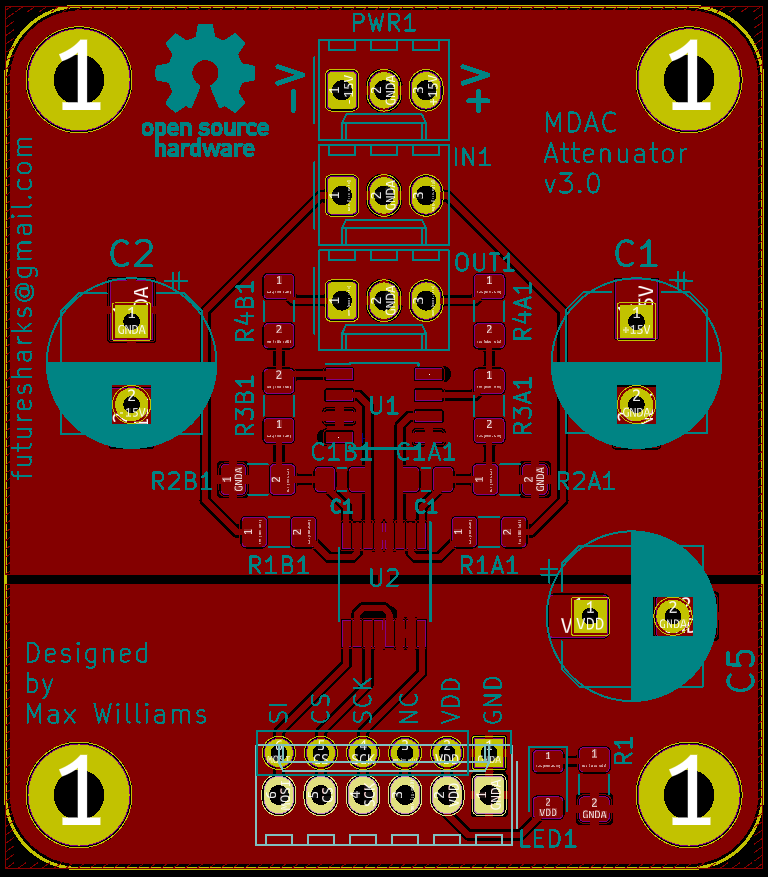
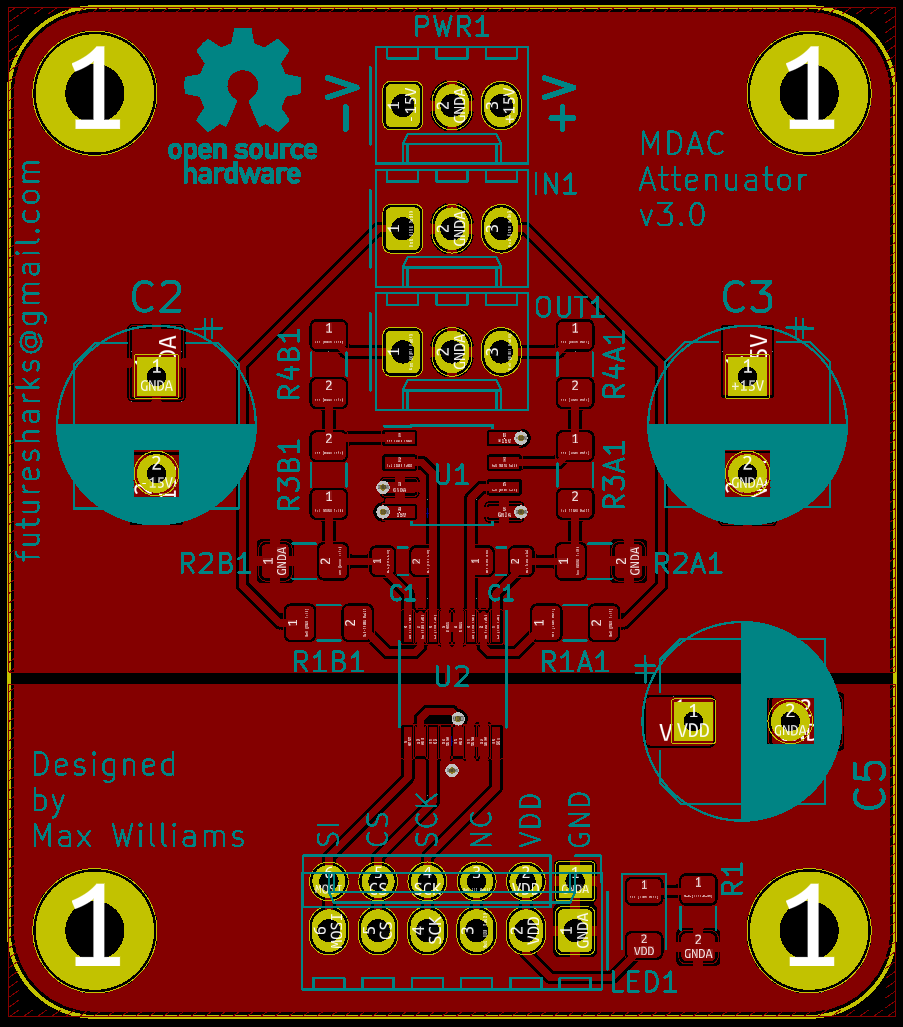
adding images

diff --git a/README.md b/README.md
@@ -1,5 +1,9 @@
 # Preamp Two
 
+![page break](../../../master/images/page_break_input_selector.png?raw=true)
+
+<img src="https://raw.githubusercontent.com/FutureSharks/preamp-two/master/images/adafruit_blinka_angles-left.svg" width="100"> <img src="https://raw.githubusercontent.com/FutureSharks/preamp-two/master/images/oshw-logo-outline.svg" width="100">
+
 Here is my project to build a Hi-Fi preamplifier. This repository includes schematics, PCB layouts, CircuitPython code, BoMs, measurements and photos.
 
 Features:
@@ -12,10 +16,12 @@ Features:
 
 ### Components
 
+![page break](../../../master/images/page_break_input_selector.png?raw=true)
+
 The preamplifier is made up of a number of connected components:
 
-* [MDAC attenuator](https://github.com/FutureSharks/preamp-two/tree/master/PCBs/mdac-attenuator): Controls the volume
-* [Input selector](https://github.com/FutureSharks/preamp-two/tree/master/PCBs/input-selector): Selects the input
-* [Micro controller board](https://github.com/FutureSharks/preamp-two/tree/master/PCBs/mcu-board): Holds the micro controller and other connectors
-* [Encoder panels](https://github.com/FutureSharks/preamp-two/tree/master/PCBs/encoder-panel): Holds rotary encoder and LED indicator
-* [RCA panel](https://github.com/FutureSharks/preamp-two/tree/master/PCBs/rca-panel): For the RCA sockets and connectors
+* MDAC attenuator [PCB](https://github.com/FutureSharks/preamp-two/tree/master/PCBs/mdac-attenuator) [code]((https://github.com/FutureSharks/preamp-two/tree/master/code/modules/mdac_attenuator.py): Controls the volume
+* Input selector [PCB](https://github.com/FutureSharks/preamp-two/tree/master/code/modules/input_selector.py) [code](): Selects the input
+* Encoder panels [PCB](https://github.com/FutureSharks/preamp-two/tree/master/code/modules/encoder_panel.py) [code](): Holds rotary encoder and LED indicator
+* Micro controller board [PCB](https://github.com/FutureSharks/preamp-two/tree/master/PCBs/mcu-board): Holds the micro controller and other connectors
+* RCA panel [PCB](https://github.com/FutureSharks/preamp-two/tree/master/PCBs/rca-panel): For the RCA sockets and connectors

diff --git a/PCBs/encoder-panel/README.md b/PCBs/encoder-panel/README.md
@@ -9,21 +9,21 @@ The module is the sole human interface to the preamp. It consists of 2 things:
 
 ### Photos
 
-![photo](../../../master/images/encoder_panel_1.jpeg?raw=true)
+<img src="https://raw.githubusercontent.com/FutureSharks/preamp-two/master/images/encoder_panel_3d.png" width="600">
 
-### Code
+### <img src="https://raw.githubusercontent.com/FutureSharks/preamp-two/master/images/adafruit_blinka_angles-left.svg" width="50"> Code
 
 CircuitPython module is here: [code/modules/encoder_panel.py](https://github.com/FutureSharks/preamp-two/blob/master/code/modules/encoder_panel.py)
 
 ### Schematic
 
-![schematic](../master/images/encoder_panel_schematic.png?raw=true)
+<img src="https://raw.githubusercontent.com/FutureSharks/preamp-two/master/images/encoder_panel_schematic.png" width="900">
 
 ### Layout
 
-![PCB front](../master/images/encoder_panel_pcb_front.png?raw=true)
+<img src="https://raw.githubusercontent.com/FutureSharks/preamp-two/master/images/encoder_panel_pcb_front.png" width="900">
 
-![PCB back](../master/images/encoder_panel_pcb_back.png?raw=true)
+<img src="https://raw.githubusercontent.com/FutureSharks/preamp-two/master/images/encoder_panel_pcb_back.png" width="900">
 
 ### BoM
 

diff --git a/PCBs/mdac-attenuator/README.md b/PCBs/mdac-attenuator/README.md
@@ -26,7 +26,7 @@ Here is the DIYAudio forum thread with my prototypes and questions: [Solid state
 
 ### Photos
 
-![photo](../../../master/images/mdac_attenuator_1.jpeg?raw=true)
+<img src="https://raw.githubusercontent.com/FutureSharks/preamp-two/master/images/mdac_attenuator_3d.png" width="600">
 
 ### Code
 
@@ -34,13 +34,13 @@ CircuitPython module is here: [code/modules/input_selector.py](https://github.co
 
 ### Schematic
 
-![schematic](../master/images/mdac_attenuator_schematic.png?raw=true)
+<img src="https://raw.githubusercontent.com/FutureSharks/preamp-two/master/images/mdac_attenuator_schematic.png" width="900">
 
 ### Layout
 
-![PCB front](../master/images/mdac_attenuator_pcb_front.png?raw=true)
+<img src="https://raw.githubusercontent.com/FutureSharks/preamp-two/master/images/mdac_attenuator_pcb_front.png" width="900">
 
-![PCB back](../master/images/mdac_attenuator_pcb_back.png?raw=true)
+<img src="https://raw.githubusercontent.com/FutureSharks/preamp-two/master/images/mdac_attenuator_pcb_back.png" width="900">
 
 ### BoM
 

diff --git a/PCBs/input-selector/README.md b/PCBs/input-selector/README.md
@@ -12,7 +12,7 @@
 
 ### Photos
 
-![photo](../../../master/images/input_selector_1.jpeg?raw=true)
+<img src="https://raw.githubusercontent.com/FutureSharks/preamp-two/master/images/input_selector_3d.png" width="600">
 
 ### Code
 
@@ -20,13 +20,13 @@ CircuitPython module is here: [code/modules/input_selector.py](https://github.co
 
 ### Schematic
 
-![schematic](../master/images/input_selector_schematic.png?raw=true)
+<img src="https://raw.githubusercontent.com/FutureSharks/preamp-two/master/images/input_selector_schematic.png" width="900">
 
 ### Layout
 
-![PCB front](../master/images/input_selector_pcb_front.png?raw=true)
+<img src="https://raw.githubusercontent.com/FutureSharks/preamp-two/master/images/input_selector_pcb_front.png" width="900">
 
-![PCB back](../master/imagesinput_selector_pcb_back.png?raw=true)
+<img src="https://raw.githubusercontent.com/FutureSharks/preamp-two/master/images/input_selector_pcb_back.png" width="900">
 
 ### BoM
 

diff --git a/PCBs/mcu-board/README.md b/PCBs/mcu-board/README.md
@@ -6,7 +6,7 @@ The PCB holds the [Adafruit ItsyBitsy M0 Express](https://learn.adafruit.com/int
 
 ### Photos
 
-![photo](../../../master/images/mcu_board_1.jpeg?raw=true)
+<img src="https://raw.githubusercontent.com/FutureSharks/preamp-two/master/images/mcu_board_3d.png" width="600">
 
 ### Code
 
@@ -14,13 +14,13 @@ N/A
 
 ### Schematic
 
-![schematic](../master/images/mcu_board_schematic.png?raw=true)
+<img src="https://raw.githubusercontent.com/FutureSharks/preamp-two/master/images/mcu_board_schematic.png" width="900">
 
 ### Layout
 
-![PCB front](../master/images/mcu_board_pcb_front.png?raw=true)
+<img src="https://raw.githubusercontent.com/FutureSharks/preamp-two/master/images/mcu_board_pcb_front.png" width="900">
 
-![PCB back](../master/images/mcu_board_pcb_back.png?raw=true)
+<img src="https://raw.githubusercontent.com/FutureSharks/preamp-two/master/images/mcu_board_pcb_back.png" width="900">
 
 ### BoM
 

diff --git a/PCBs/rca-panel/README.md b/PCBs/rca-panel/README.md
@@ -6,7 +6,7 @@ This PCB provides mounting for the RCA sockets and [input selector](https://gith
 
 ### Photos
 
-![photo](../../../master/images/rca_panel_1.jpeg?raw=true)
+<img src="https://raw.githubusercontent.com/FutureSharks/preamp-two/master/images/rca_panel_3d.png" width="600">
 
 ### Code
 
@@ -14,13 +14,13 @@ N/A
 
 ### Schematic
 
-![schematic](../master/images/rca_panel_schematic.png?raw=true)
+<img src="https://raw.githubusercontent.com/FutureSharks/preamp-two/master/images/rca_panel_schematic.png" width="900">
 
 ### Layout
 
-![PCB front](../master/images/rca_panel_pcb_front.png?raw=true)
+<img src="https://raw.githubusercontent.com/FutureSharks/preamp-two/master/images/rca_panel_pcb_front.png" width="900">
 
-![PCB back](../master/images/rca_panel_pcb_back.png?raw=true)
+<img src="https://raw.githubusercontent.com/FutureSharks/preamp-two/master/images/rca_panel_pcb_back.png" width="900">
 
 ### BoM
 

diff --git a/PCBs/README.md b/PCBs/README.md
@@ -1,1 +1,9 @@
 # PCBs and schematics
+
+![page break](../../../master/images/page_break_input_selector.png?raw=true)
+
+* [MDAC attenuator](mdac-attenuator): Controls the volume
+* [Input selector](input-selector): Selects the input
+* [Encoder panel](encoder-panel): Holds rotary encoder and LED indicator
+* [Micro controller board](mcu-board): Holds the micro controller and other connectors
+* [RCA panel](rca-panel): For the RCA sockets and connectors
